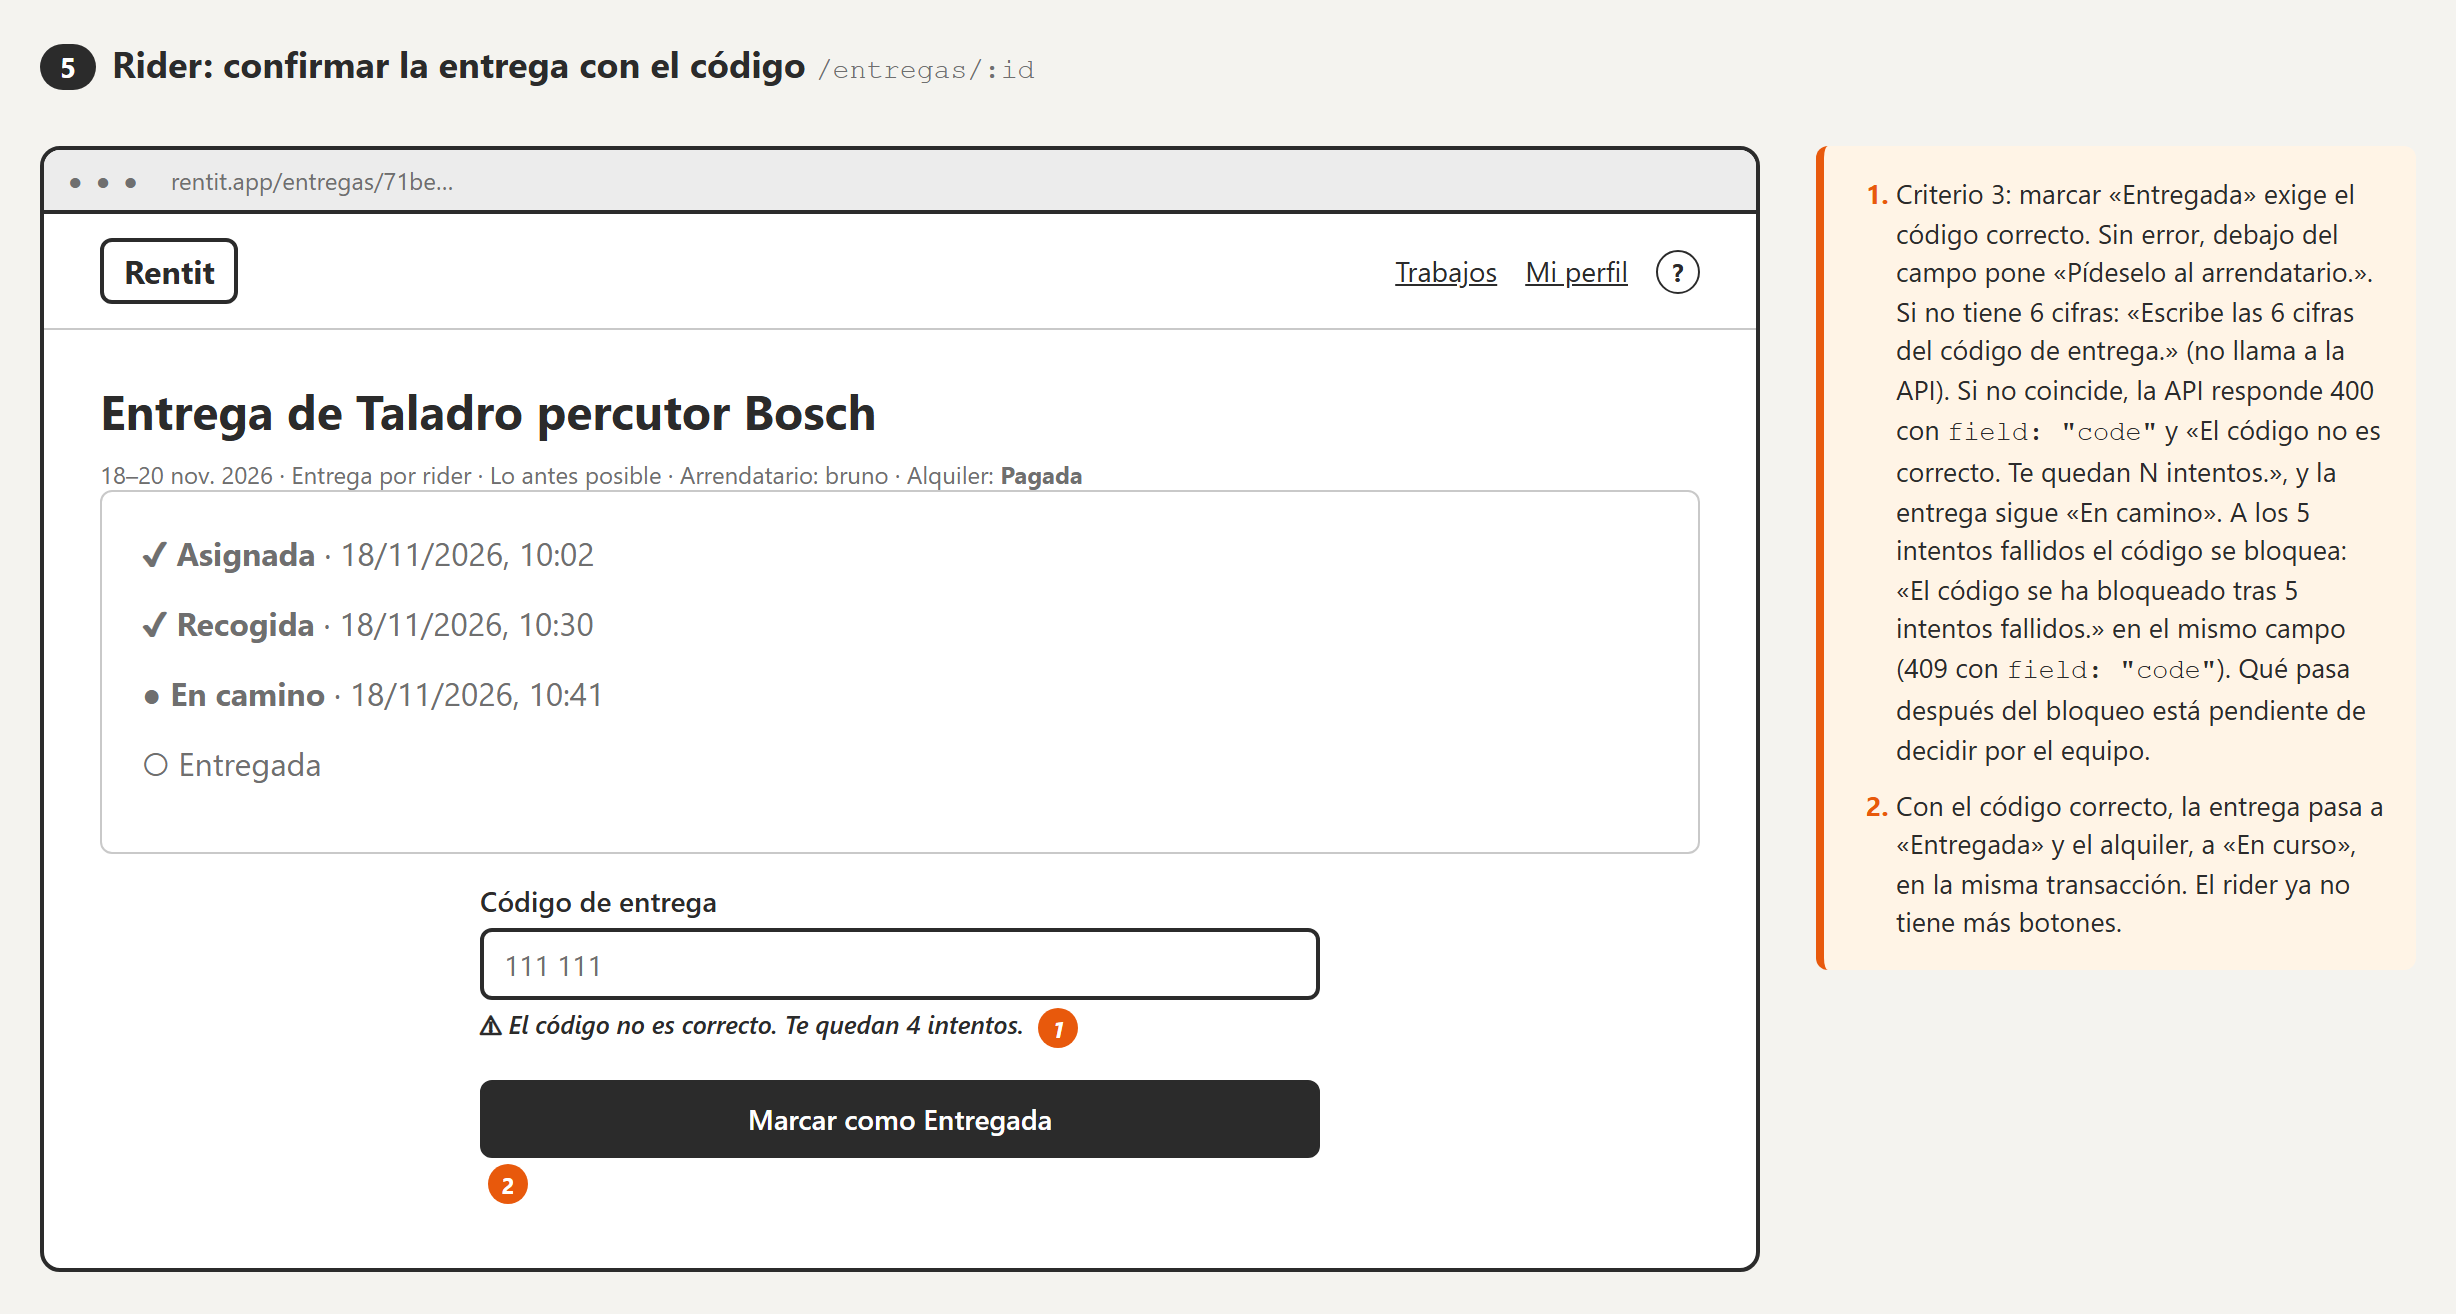
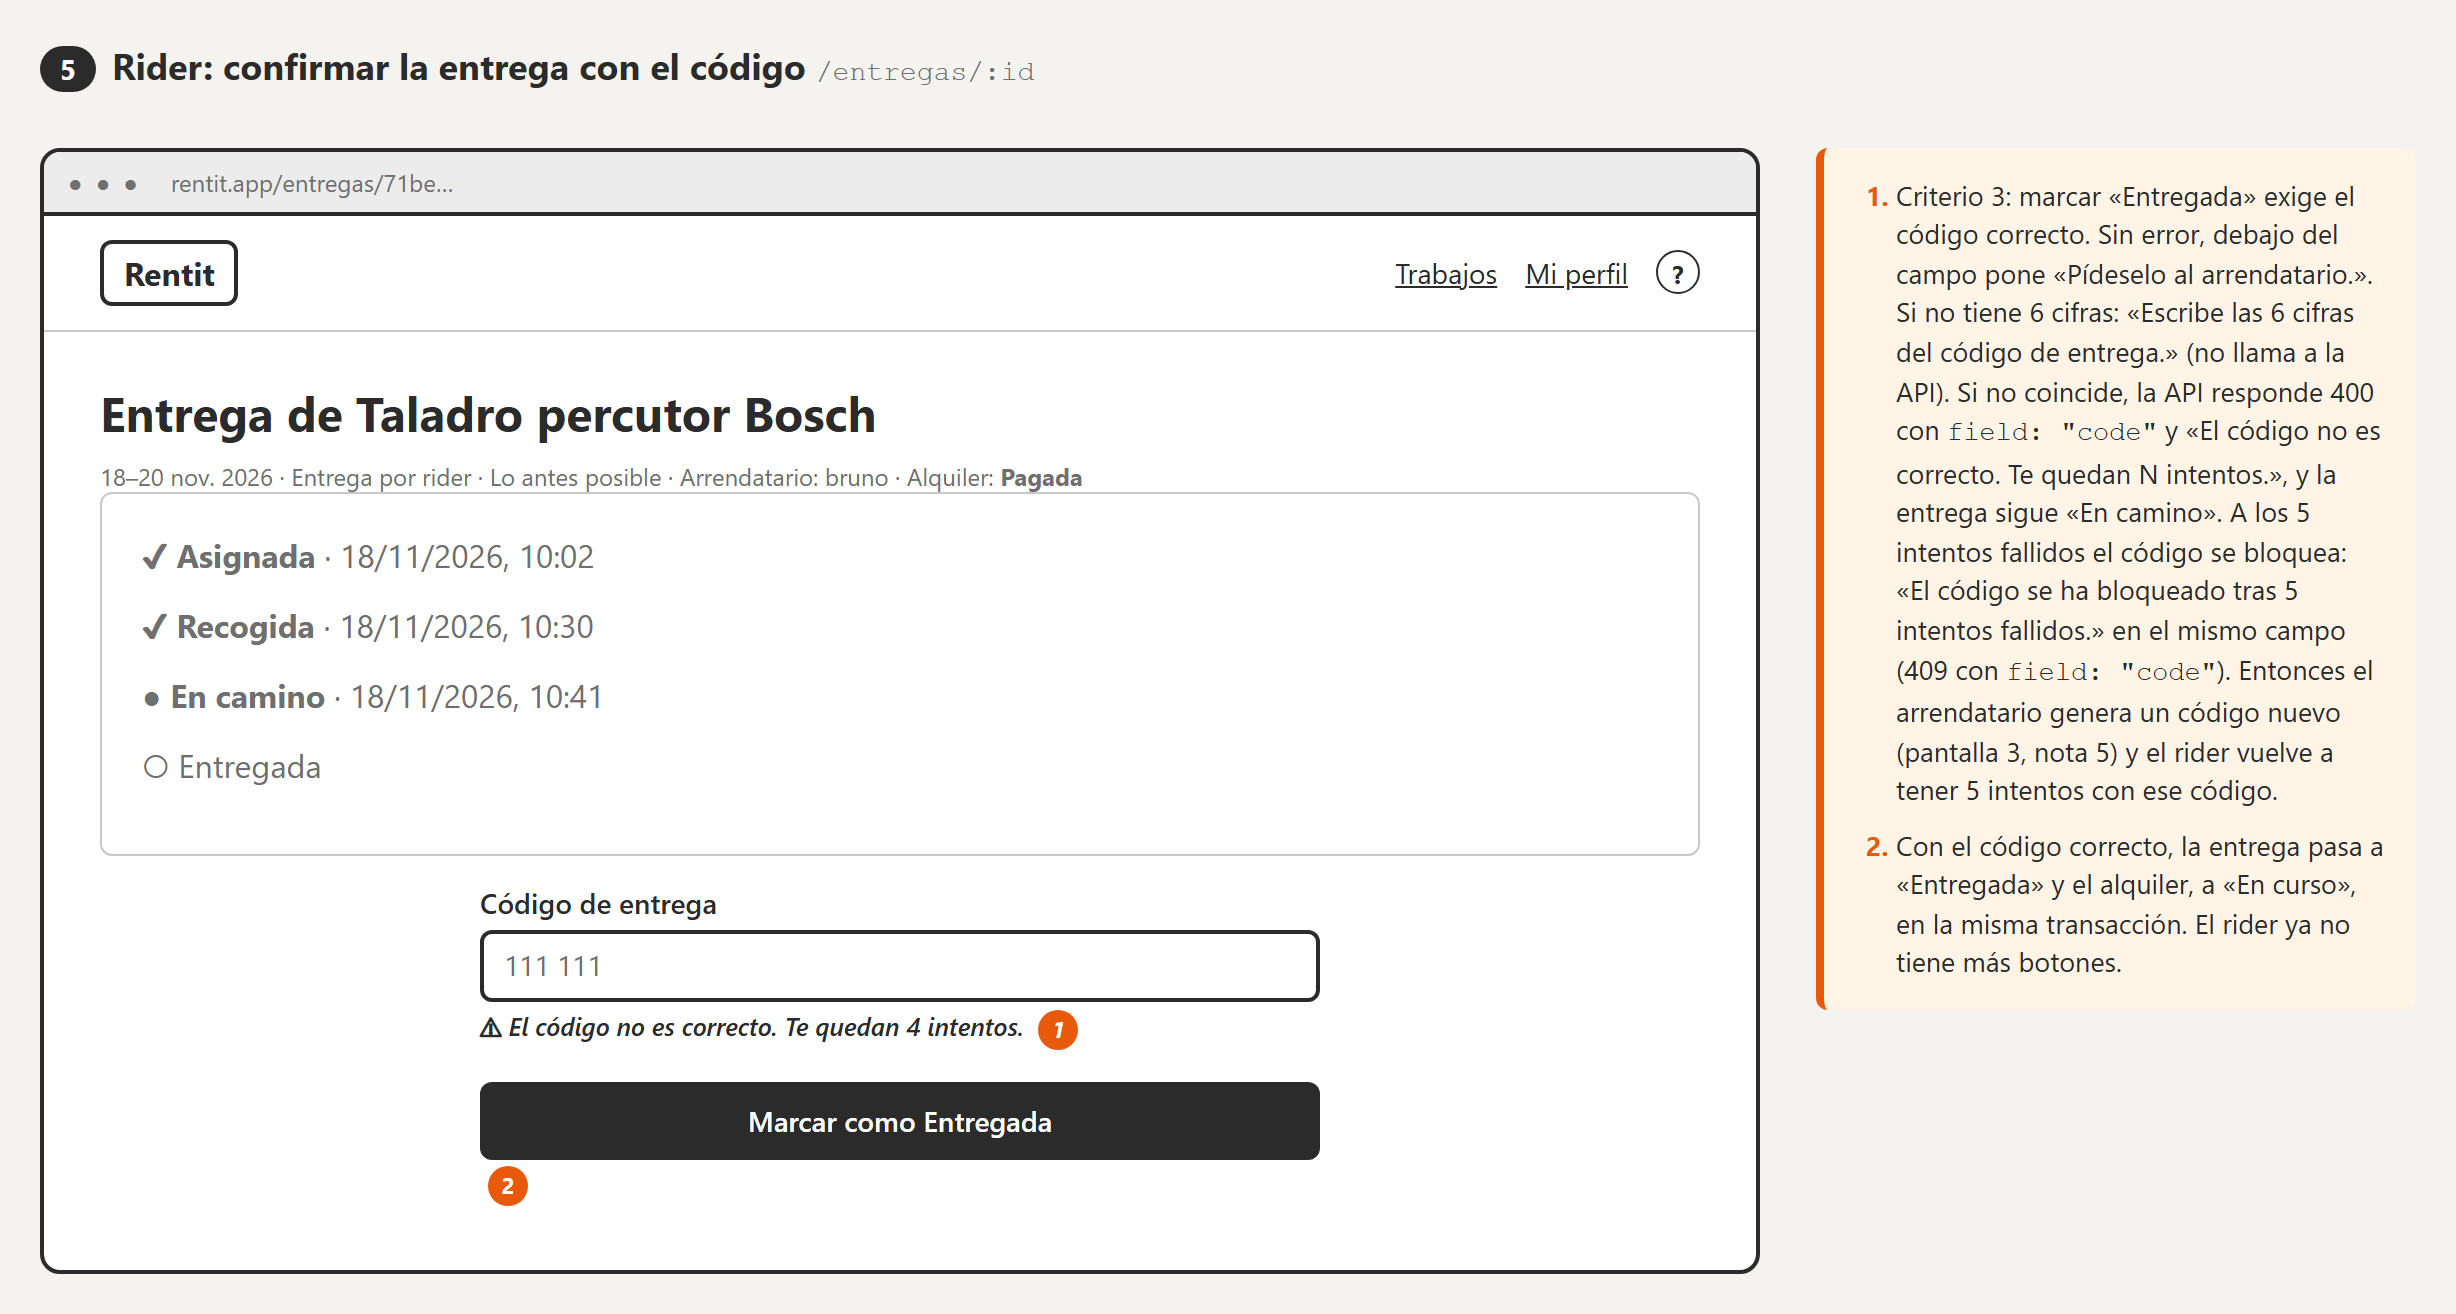
docs(wireframes): US-05.02 «Generar un código nuevo» si el código se bloquea (#290)

diff --git a/docs/wireframes/US-05.02-seguimiento-entrega/index.html b/docs/wireframes/US-05.02-seguimiento-entrega/index.html
@@ -19,8 +19,8 @@
       </p>
       <p class="wf-meta">
         API de T13 (#288, Francesc): <code>GET /api/entregas/:id</code> (el id es el de la reserva),
-        <code>POST /api/entregas/:id/estado</code> (rider), <code>/recibida</code> y <code>/devuelta</code>
-        (arrendatario). Estados de la entrega: <code>pending | assigned | picked_up | on_the_way | delivered</code>; de la
+        <code>POST /api/entregas/:id/estado</code> (rider), <code>/recibida</code>, <code>/devuelta</code> y
+        <code>/codigo</code> (arrendatario, código nuevo si se bloquea). Estados de la entrega: <code>pending | assigned | picked_up | on_the_way | delivered</code>; de la
         reserva: <code>paid | in_progress | finished</code>.
       </p>
     </header>
@@ -163,6 +163,8 @@
               Tu código de entrega: <strong>482 193</strong>. Enséñaselo al rider cuando te dé el objeto.
               <span class="wf-marca">3</span>
             </p>
+            <p class="wf-ayuda">¿El rider te dice que el código se ha bloqueado?</p>
+            <span class="wf-boton wf-secundario">Generar un código nuevo</span><span class="wf-marca">5</span>
             <p class="wf-ayuda">● Actualizado al momento <span class="wf-marca">4</span></p>
           </div>
         </div>
@@ -180,6 +182,8 @@
             </div>
             <p class="wf-texto"></p>
             <p class="wf-aviso">Tu código de entrega: <strong>482 193</strong>. Enséñaselo al rider cuando te dé el objeto.</p>
+            <p class="wf-ayuda">¿El rider te dice que el código se ha bloqueado?</p>
+            <span class="wf-boton wf-secundario wf-ancho">Generar un código nuevo</span>
             <p class="wf-ayuda">● Actualizado al momento</p>
           </div>
           <div class="wf-barra-inferior"><span>Inicio</span><span>Mis objetos</span><span>Mis solicitudes</span><span>Mi perfil</span></div>
@@ -204,7 +208,13 @@
         <li>
           Criterio 2: los cambios llegan solos por el canal en tiempo real (SSE, #324), sin recargar, con el evento
           <code>entrega.estado</code>, que no lleva el código. Al recibirlo, la pantalla vuelve a pedir el seguimiento.
-          T13 tiene que publicar ese evento al guardar cada cambio. Ver la pantalla 11 para cuando se pierde la conexión.
+          T13 publica ese evento al guardar cada cambio. Ver la pantalla 11 para cuando se pierde la conexión.
+        </li>
+        <li>
+          Si el rider falla 5 veces, el código se bloquea (pantalla 5). El arrendatario pulsa «Generar un código nuevo»
+          (<code>POST /api/entregas/:id/codigo</code>): sale el código nuevo en su lugar, el anterior deja de valer y el
+          rider vuelve a tener 5 intentos. Encima de la lista aparece «Hemos generado un código nuevo. El anterior ya no
+          vale.». Mientras se envía, el botón dice «Generando…». El botón solo sale con rider y antes de «Entregada».
         </li>
       </ol>
     </section>
@@ -291,8 +301,8 @@
           arrendatario.». Si no tiene 6 cifras: «Escribe las 6 cifras del código de entrega.» (no llama a la API). Si
           no coincide, la API responde 400 con <code>field: "code"</code> y «El código no es correcto. Te quedan N
           intentos.», y la entrega sigue «En camino». A los 5 intentos fallidos el código se bloquea: «El código se ha
-          bloqueado tras 5 intentos fallidos.» en el mismo campo (409 con <code>field: "code"</code>). Qué pasa
-          después del bloqueo está pendiente de decidir por el equipo.
+          bloqueado tras 5 intentos fallidos.» en el mismo campo (409 con <code>field: "code"</code>). Entonces el
+          arrendatario genera un código nuevo (pantalla 3, nota 5) y el rider vuelve a tener 5 intentos con ese código.
         </li>
         <li>
           Con el código correcto, la entrega pasa a «Entregada» y el alquiler, a «En curso», en la misma transacción. El
